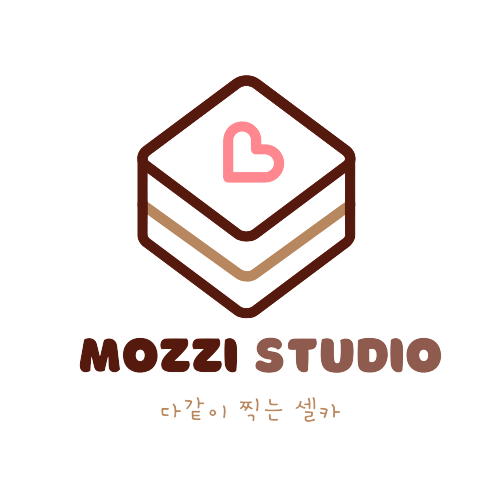
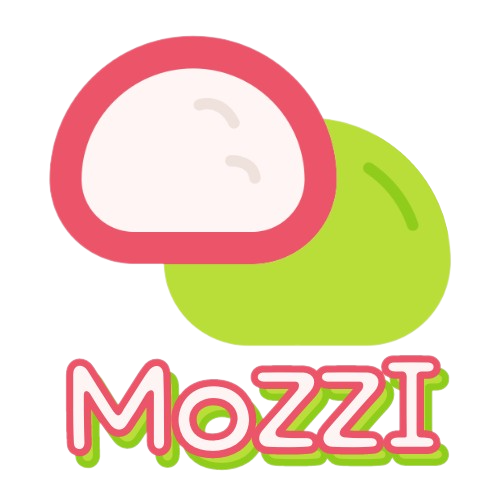
fix : 수정된 로고로 교체

diff --git a/Frontend/src/pages/start.jsx b/Frontend/src/pages/start.jsx
@@ -7,6 +7,7 @@ import TextInput from "@/components/TextInput";
 import boothApi from "@/api/boothApi";
 import { Link, useNavigate } from "react-router-dom";
 import mozzilogo from "@/assets/img/mozzi.png";
+import mozziBigLogo from "@/assets/img/mozzi-big.png";
 import gotobooth from "@/assets/img/gotobooth.png";
 import makebooth from "@/assets/img/makebooth.png";
 import gotocommu from "@/assets/img/gotocommu.png";
@@ -61,7 +62,7 @@ function Start() {
         <NavBar user={user} />
         <div className="w-[calc(60rem)] flex-col justify-center items-center text-center mx-auto pt-40">
           <div className=" text-2xl items-center">
-            <img src={mozzilogo} className=" mx-auto w-72 h-72" />
+            <img src={mozziBigLogo} className=" mx-auto w-72 h-72" />
           </div>
           <div className=" flex justify-center text-center gap-15 pt-20">
             <div className="w-96 h-fit flex-col p-1">
